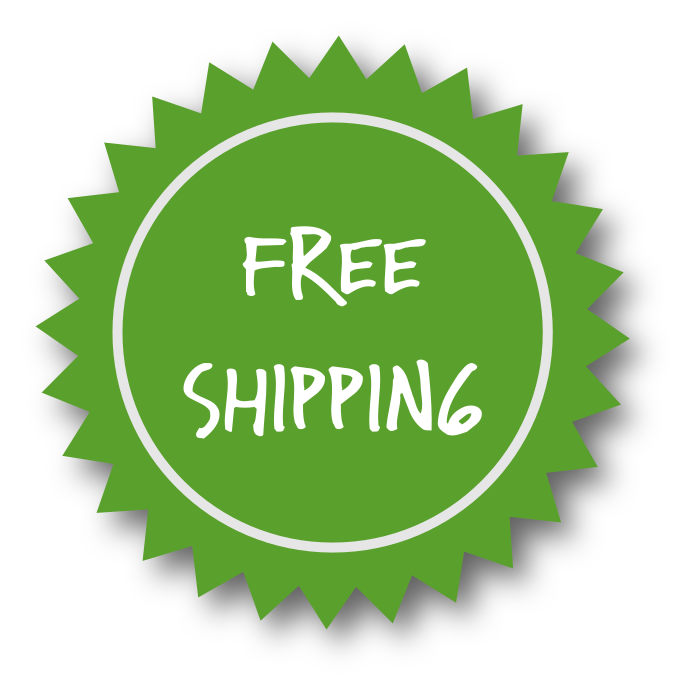
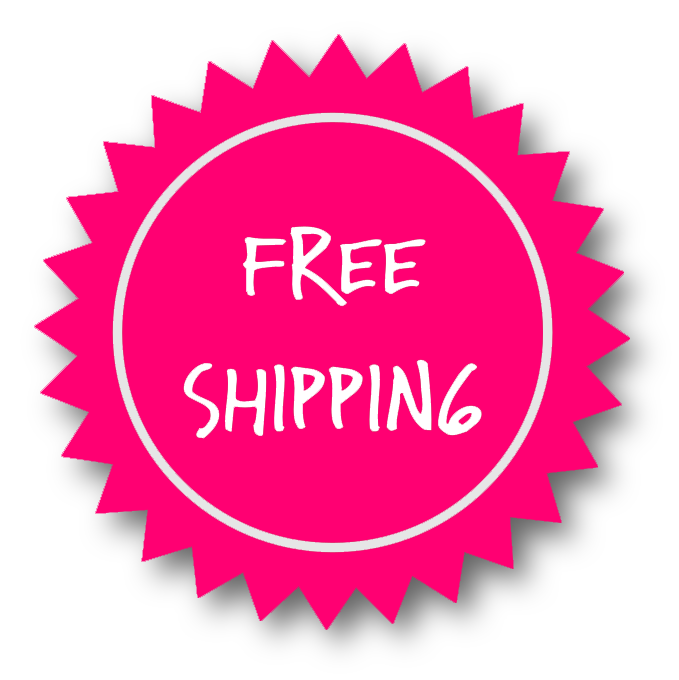
pink switch

diff --git a/index.html b/index.html
@@ -20,9 +20,9 @@
 <body>
   <div class="hero-section wf-section"><img src="images/pops-crop-color.jpg" loading="lazy" sizes="(max-width: 2400px) 100vw, 2400px" srcset="images/pops-crop-color-p-500.jpeg 500w, images/pops-crop-color-p-800.jpeg 800w, images/pops-crop-color-p-1080.jpeg 1080w, images/pops-crop-color-p-1600.jpeg 1600w, images/pops-crop-color-p-2000.jpeg 2000w, images/pops-crop-color.jpg 2400w" alt="" class="color-hero"><img src="images/pops-crop-bw.jpg" loading="lazy" data-w-id="ef0ac1ec-1ff4-1cb8-d177-91bb0c33e8c3" sizes="(max-width: 2400px) 100vw, 2400px" srcset="images/pops-crop-bw-p-500.jpeg 500w, images/pops-crop-bw-p-800.jpeg 800w, images/pops-crop-bw-p-1080.jpeg 1080w, images/pops-crop-bw-p-1600.jpeg 1600w, images/pops-crop-bw-p-2000.jpeg 2000w, images/pops-crop-bw.jpg 2400w" alt="" class="bw-hero">
     <div class="container-5 w-container">
-      <div data-w-id="d5bb58a0-741c-48ae-ee0f-7e7e84297bc7" class="div-block-3"><img src="images/price-tag-3-drop.png" loading="lazy" width="275" sizes="(max-width: 767px) 100vw, (max-width: 991px) 175px, 24vw" srcset="images/price-tag-3-drop-p-500.png 500w, images/price-tag-3-drop.png 679w" alt="" class="image-11"></div>
-      <div data-w-id="155cef9f-8005-1d55-d4b8-399692f775d9" class="div-block-4"><img src="images/price-tag-2-drop.png" loading="lazy" sizes="(max-width: 767px) 100vw, (max-width: 991px) 175px, 275px" width="275" srcset="images/price-tag-2-drop-p-500.png 500w, images/price-tag-2-drop.png 679w" alt="" class="image-10"></div>
-      <div data-w-id="1975eb4f-c691-66bd-e6ad-5f6369b76662" class="div-block-5"><img src="images/price-tag-1-drop.png" loading="lazy" sizes="(max-width: 767px) 100vw, (max-width: 991px) 175px, 275px" width="275" srcset="images/price-tag-1-drop-p-500.png 500w, images/price-tag-1-drop.png 679w" alt="" class="image-9"></div>
+      <div data-w-id="d5bb58a0-741c-48ae-ee0f-7e7e84297bc7" class="div-block-3"><img src="images/price-tag-3-drop.png" loading="lazy"  alt="sticker" class="image-11"></div>
+      <div data-w-id="155cef9f-8005-1d55-d4b8-399692f775d9" class="div-block-4"><img src="images/price-tag-2-drop.png" loading="lazy"  alt="sticker" class="image-10"></div>
+      <div data-w-id="1975eb4f-c691-66bd-e6ad-5f6369b76662" class="div-block-5"><img src="images/price-tag-1-drop.png" loading="lazy"  alt="sticker" class="image-9"></div>
       <div data-w-id="e4b67454-6120-f762-971d-3a10e6d543f3" class="div-block-6">
         <a id="w-node-d83dcf16-90c8-eb4a-1e76-51896921320c-fd1e1d97" href="https://shop.prohibition-pops.com/" target="_blank" class="button w-button">Buy Now</a>
       </div>
@@ -55,13 +55,14 @@
   <div class="wholesale-section wf-section">
     <div class="container-3 w-container">
       <h2 class="heading-3">Wholesale / Distributors</h2>
-      <p class="paragraph-3">California, New York, New Jersey, Florida<br>Park Street Companies<br>1000 Brickell Ave, Suite 915<br>Miami, FL 33131<br>305-967-7440 Ext 545<br>
+      <p class="paragraph-3" style="text-align: center;">For distribution <a style="color: #fff;text-decoration: underline" href="mailto:cornelia@prohibition-pops.com">contact us</a></p>
+      <!-- <p class="paragraph-3">California, New York, New Jersey, Florida<br>Park Street Companies<br>1000 Brickell Ave, Suite 915<br>Miami, FL 33131<br>305-967-7440 Ext 545<br>
         <a href="http://www.parkstreet.com" target="_blank" class="link-2">parkstreet.com</a><br><br>Georgia<br>Eagle Rock Distributing Company<br>6205 Best Friend Rd Suite A<br>Norcross, GA 30071<br>770-498-5500<br>
         <a href="http://www.eaglerocks.com" target="_blank" class="link-3">eaglerocks.com</a><br><br>Michigan<br>Imperial Beverage<br>3825 Emerald Dr<br>Kalamazoo, MI 49001<br>269-382-4200<br>
         <a href="http://www.imperialbeverage.com" target="_blank" class="link-4">imperialbeverage.com</a><br><br>South Carolina<br>Grapevine Distributors<br>1514 Mathis Ferry Rd Suite 111<br>Mount Pleasant, SC 29464<br>843-810-1741<br>
         <a href="mailto:ynslife@aol.com" class="link-6">ynslife@aol.com</a><br><br>Nevada/Las Vegas<br>Bootleggers Distributing<br>Western Oakey Center<br>1513 W. Oakey Blvd<br>Las Vegas, NV 89102<br>702-625-0440<br>
         <a href="http://www.bootleggerslv.com" target="_blank" class="link-5">bootleggerslv.com</a>
-      </p>
+      </p> -->
     </div>
   </div>
   <div class="instagram-section wf-section">

diff --git a/css/prohibition-pops.webflow.css b/css/prohibition-pops.webflow.css
@@ -41,7 +41,8 @@ body {
   -webkit-align-items: center;
   -ms-flex-align: center;
   align-items: center;
-  background-color: #5aa02c;
+  /* background-color: #5aa02c; */
+  background-color: #ff0072;
   box-shadow: 3px 3px 20px -2px rgba(0, 0, 0, 0.74);
   font-size: 1.5rem;
   line-height: 1.5rem;
@@ -1210,7 +1211,7 @@ body {
   }
 
   .wholesale-section {
-    height: 60rem;
+    height: 20rem;
     margin-top: 0px;
   }
 
